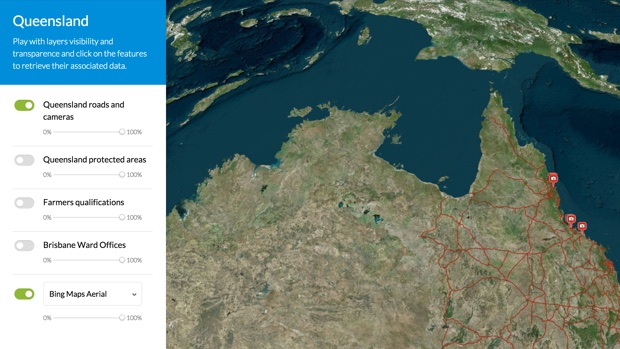
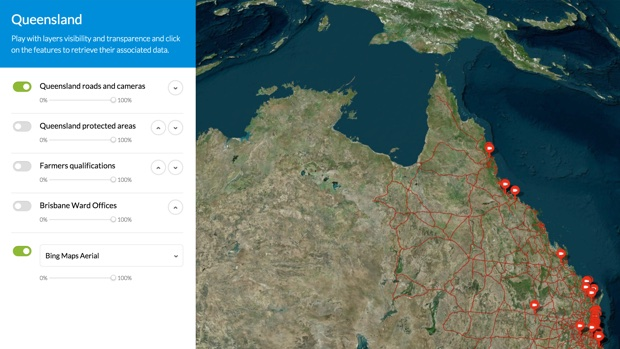
change buttons

diff --git a/css/app.css b/css/app.css
@@ -107,7 +107,8 @@ p.small {
   float:left;
 }
 .itm-body {
-  display: table;
+  display: block;
+  overflow: hidden;
 }
 
 .toolbar-info {
@@ -125,7 +126,7 @@ p.small {
   top: 0;
   left: 0;
   bottom: 0;
-  width: 300px;
+  width: 380px;
 }
 #toolbar input {
     vertical-align: middle;
@@ -160,6 +161,76 @@ p.small {
   margin-top: 22px;
   border-bottom: 0;
 }
+
+.toolbarOptions-actions {
+  right: 0;
+  top: 0;
+}
+
+.toolbarOptions-actions .cesium-button {
+  margin: 0;
+  padding: 6px 8px;
+  margin: 0;
+  padding: 6px 8px;
+  background-color: transparent;
+  border-radius: 50%;
+  border: 2px solid #e5e5e5;
+  display: inline-block;
+  text-indent: -9000px;
+  width: 30px;
+  height: 30px;
+  position: relative;
+}
+
+  .toolbarOptions-actions .cesium-button:before {
+    content:"";
+    width: 5px;
+    height: 2px;
+    background: #666;
+    position: absolute;
+    top: 13px;
+    right: 9px;
+    border-radius: 4px;
+    transform: rotate(45deg);
+
+  }
+  .toolbarOptions-actions .cesium-button:after {
+    content:"";
+    width: 5px;
+    height: 2px;
+    background: #666;
+    position: absolute;
+    top: 13px;
+    right: 12px;
+    border-radius: 4px;
+    transform: rotate(-45deg);
+  }
+
+
+  .toolbarOptions-actions .cesium-button.cesium-button--down:before {
+    content:"";
+    width: 5px;
+    height: 2px;
+    background: #666;
+    position: absolute;
+    top: 13px;
+    right: 9px;
+    border-radius: 4px;
+    transform: rotate(-45deg);
+  }
+  .toolbarOptions-actions .cesium-button.cesium-button--down:after {
+    content:"";
+    width: 5px;
+    height: 2px;
+    background: #666;
+    position: absolute;
+    top: 13px;
+    right: 12px;
+    border-radius: 4px;
+    transform: rotate(45deg);
+
+  }
+
 
 #toolbar .toolbarOptions li:last-child .select-styled { display: block; }
 
@@ -479,7 +550,6 @@ select {
   font-family: 'Lato';
   display: block;
   width: 100%;
-  margin-top: -9px;
   margin-bottom: 9px;
 }
   .select-container {

diff --git a/queensland.html b/queensland.html
@@ -42,7 +42,7 @@
                     <div class="itm-media u-rspace-s">
                         <input type="checkbox" class="toogle u-iblock u-talign u-rspace-s" data-bind="checked: show">
                     </div>
-                    <div class="itm-body">
+                    <div class="itm-body u-pr">
                         <h3 class="u-vspace-xs" data-bind="text: name, visible: !$parent.isSelectableLayer($data)"></h3>
                             <div class="select-container" data-bind="visible: $parent.isSelectableLayer($data)">
                                 <select data-bind="visible: $parent.isSelectableLayer($data), options: $parent.baseLayers, optionsText:     'name', value: $parent.selectedLayer">
@@ -53,13 +53,10 @@
                             <p class="small u-iblock u-malign">0%</p>
                             <input class="u-iblock u-malign u-lspace-m u-rspace-m" type="range" min="0" max="1" step="0.01" data-bind="value: alpha, valueUpdate: 'input'">
                             <p class="small u-iblock u-malign">100%</p>
-
-                            <!--
-                            <div class="u-iblock u-talign u-rspace-m toolbarOptions-actions">
+                            <div class="u-iblock u-talign toolbarOptions-actions u-pa">
                                 <button type="button" class="cesium-button" data-bind="click: function() { $parent.raise($data, $index()); }, visible: $parent.canRaise($index())">▲</button>
                                 <button type="button" class="cesium-button cesium-button--down" data-bind="click: function() { $parent.lower($data, $index()); }, visible: $parent.canLower($index())">▼</button>
                             </div>
-                            -->
                         </div>
                     </div>
                 </li>
